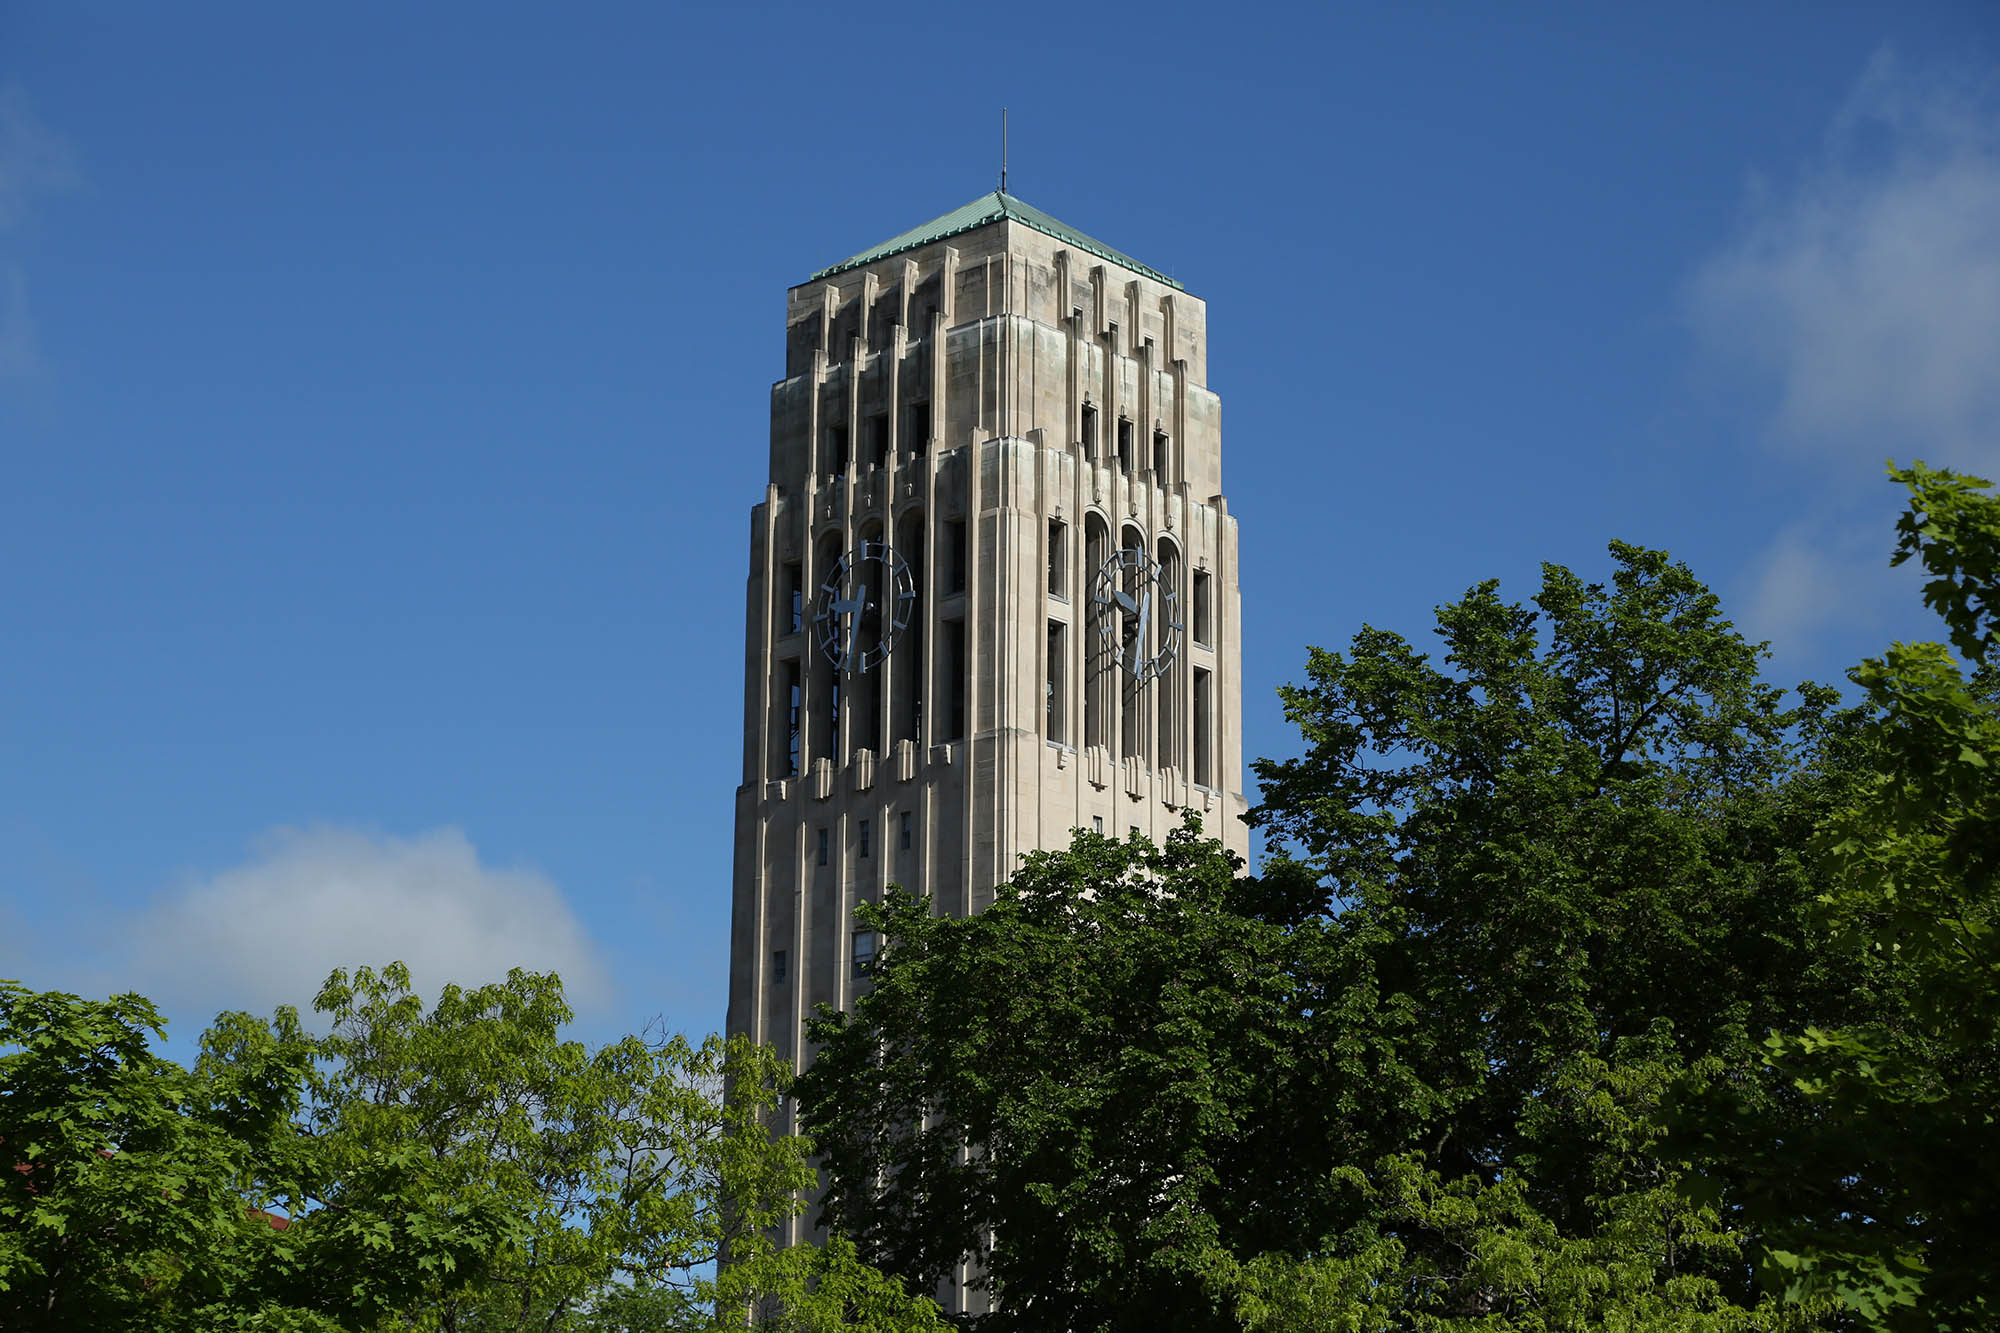
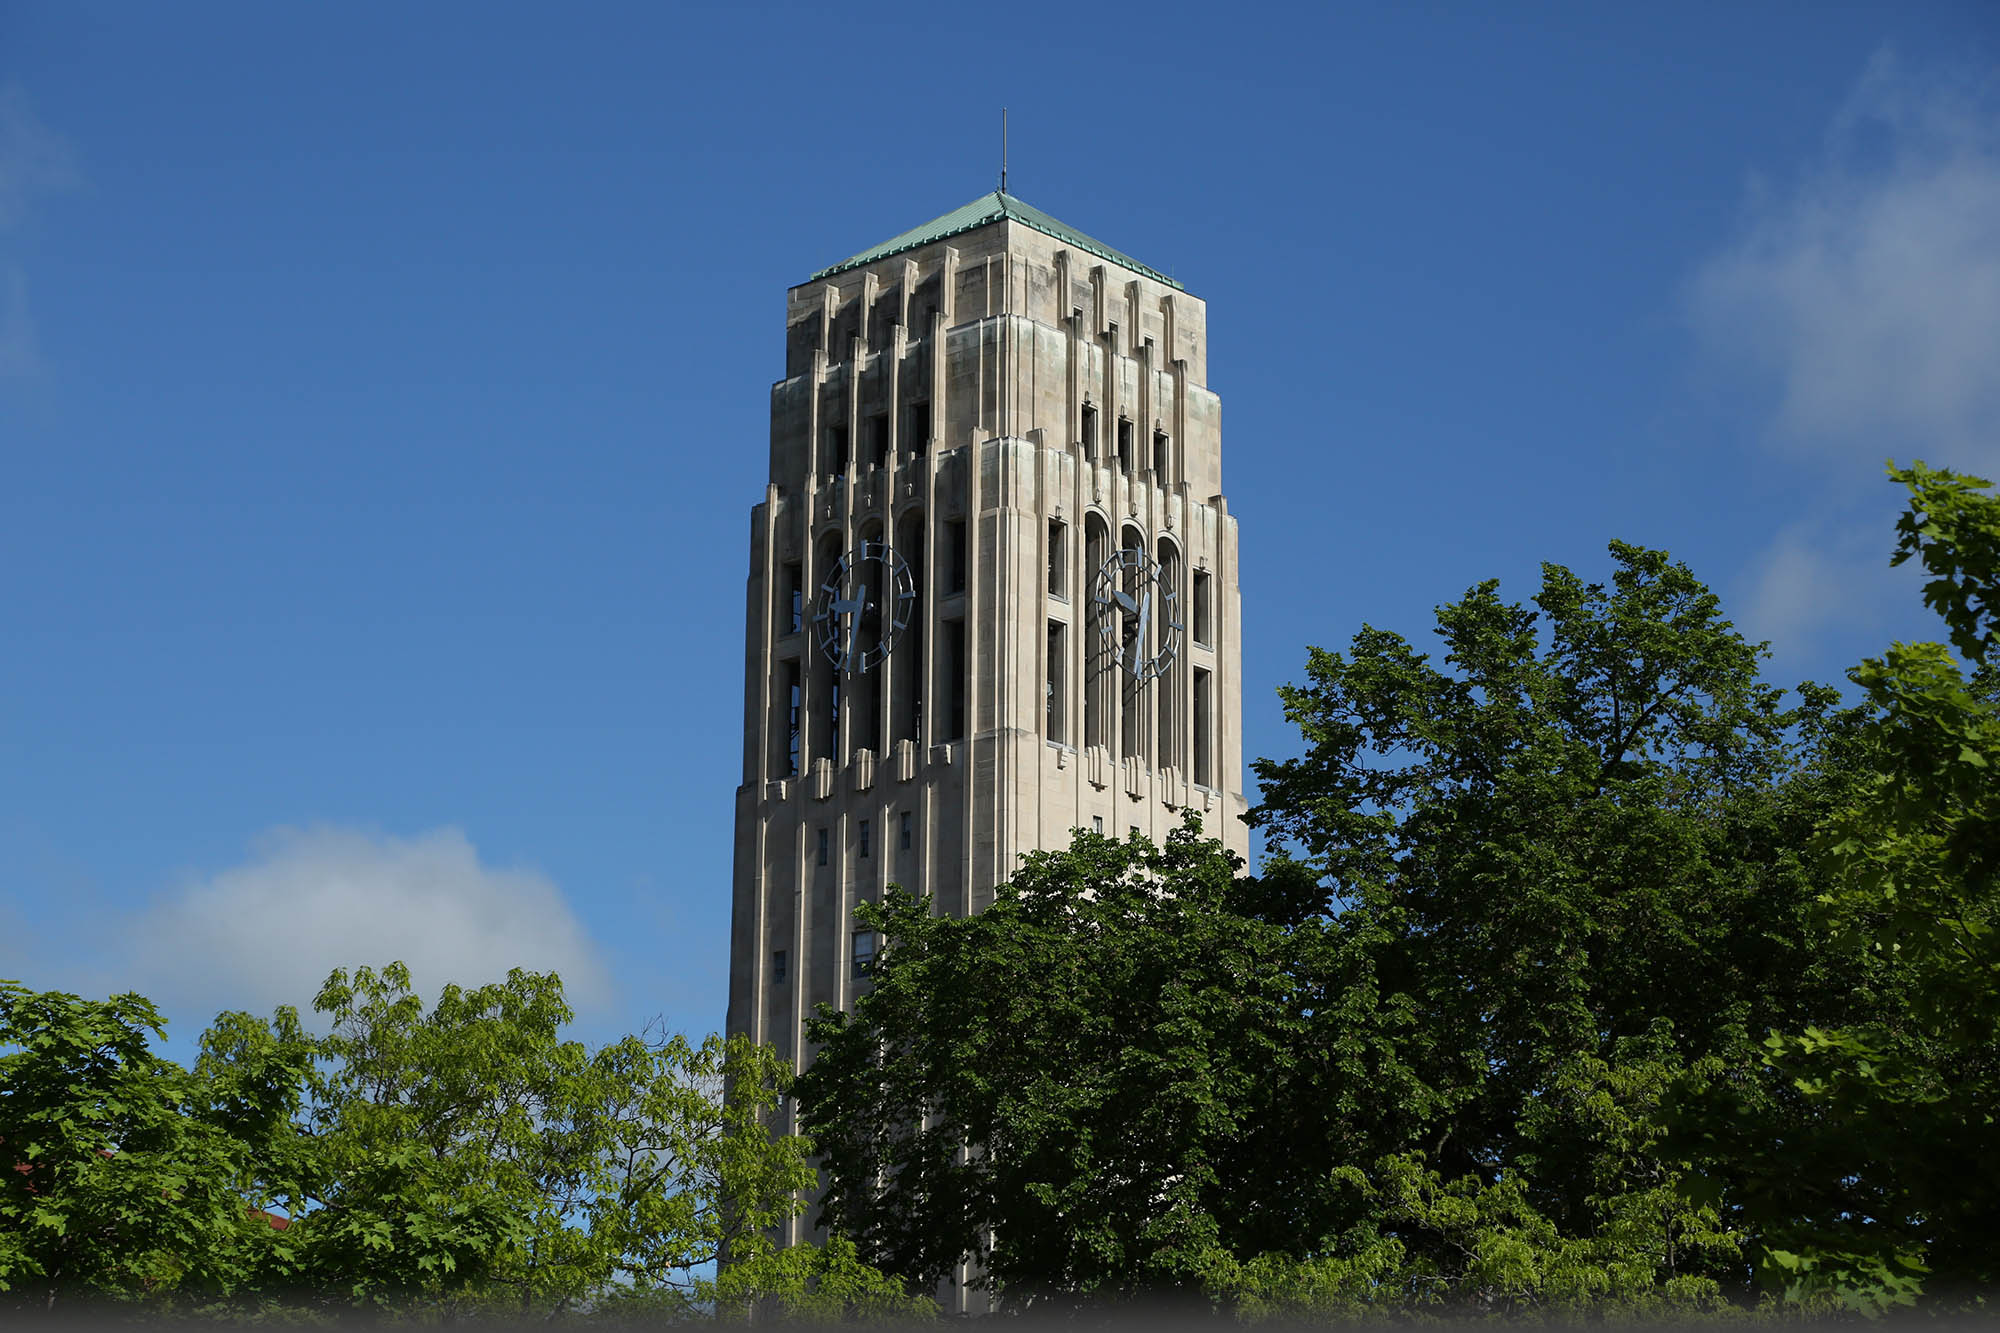
TLPORTAL-293 - fade background images to #444 and remove unneeded images

Changed region(s): [[0.0, 0.9535, 1.0, 1.0]]

diff --git a/UI/js/utils/utils.js b/UI/js/utils/utils.js
@@ -100,10 +100,12 @@ $(document).ready(function(){
 
       //need to get absolute path to deal with Chrome/Safari
       document.body.style.backgroundImage = 'url(' + window.location + 'external/image/' + ramdomImage + ')';
+      document.body.style.backgroundColor = '#444444';
     })
     .fail(function() {
       // select a default image and assign it to the body element
       document.body.style.backgroundImage = 'url(' + window.location + 'data/images/back/default.jpg' + ')';
+      document.body.style.backgroundColor = '#444444';
     });
   }
 });

diff --git a/UI/css/custom_style.css b/UI/css/custom_style.css
@@ -141,7 +141,6 @@ ul {
     padding: 5px 10px;
     background-color:rgba(51, 51, 51, 0.8);
     border-radius: 3px;
-
 }
 
 .date {
